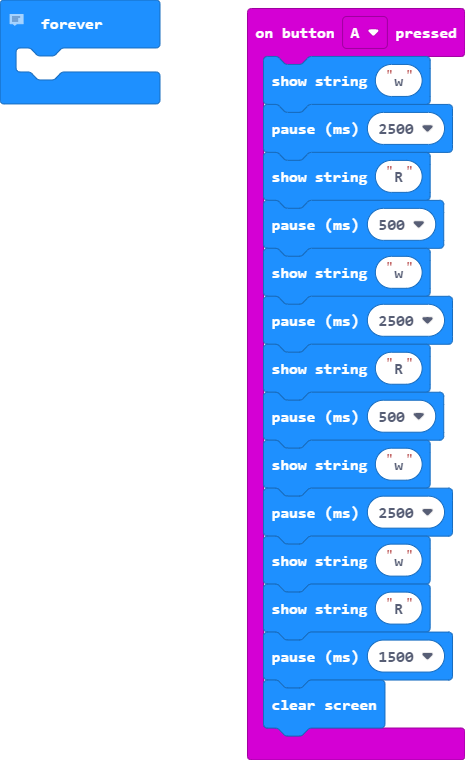
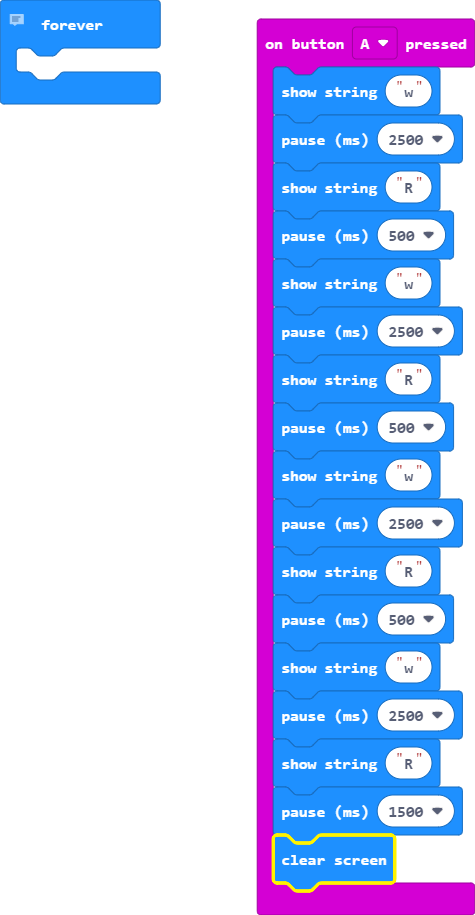
Update main.blocks, main.ts, main.py

diff --git a/main.ts b/main.ts
@@ -9,7 +9,10 @@ input.onButtonPressed(Button.A, function () {
     basic.pause(500)
     basic.showString("w")
     basic.pause(2500)
+    basic.showString("R")
+    basic.pause(500)
     basic.showString("w")
+    basic.pause(2500)
     basic.showString("R")
     basic.pause(1500)
     basic.clearScreen()

diff --git a/main.py b/main.py
@@ -1,7 +1,24 @@
+def on_button_pressed_a():
+    basic.show_string("w")
+    basic.pause(2500)
+    basic.show_string("R")
+    basic.pause(500)
+    basic.show_string("w")
+    basic.pause(2500)
+    basic.show_string("R")
+    basic.pause(500)
+    basic.show_string("w")
+    basic.pause(2500)
+    basic.show_string("w")
+    basic.show_string("R")
+    basic.pause(1500)
+    basic.clear_screen()
+input.on_button_pressed(Button.A, on_button_pressed_a)
+
 # https://github.com/jegyed50/jegyed50-bbc-microbit-study365-blocks-03-04-a
 # JEGYED50-BBC-MICROBIT-STUDY365-BLOCKS-03-04-B
 # POMODORO TIMER
-# Betűk W25R5W25R5W25R5W25R15 25p=2,5s 5p =0,s,15p=1,5s
+# Betűk W25R5W25R5W25R5W25R15 25p=2500ms, 5p =500ms, 15p=1500ms
 
 def on_forever():
     pass
